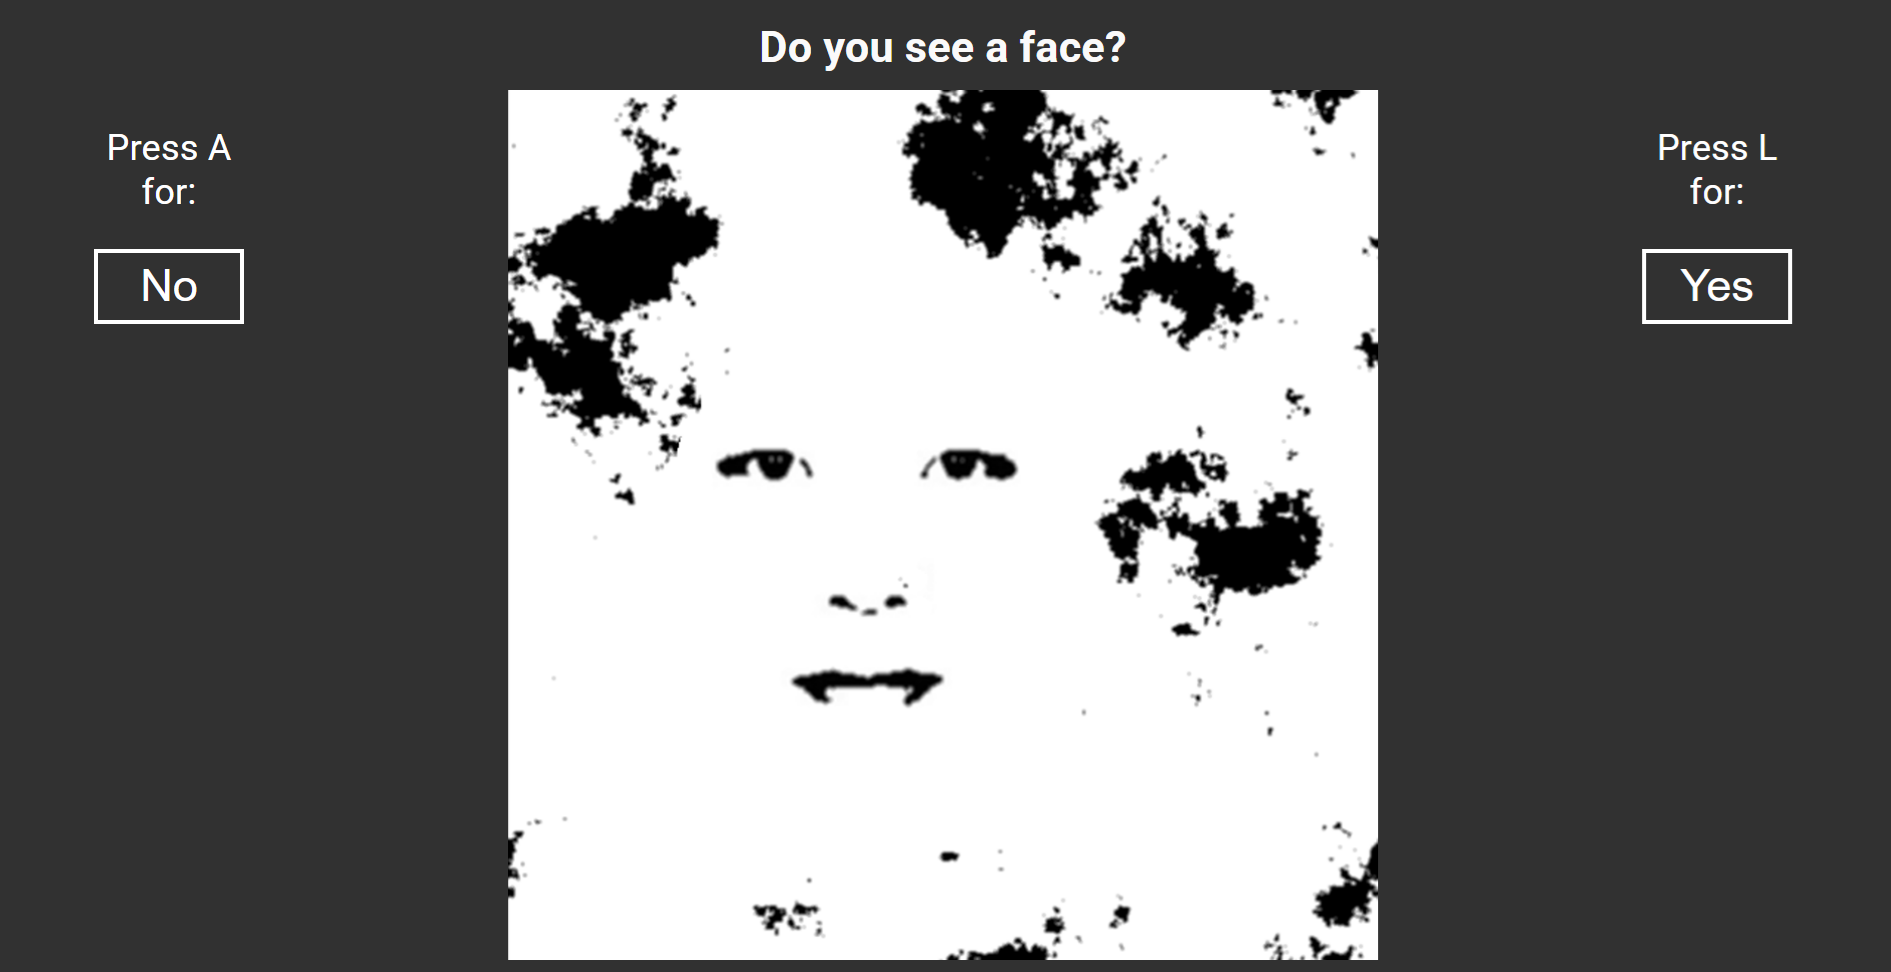
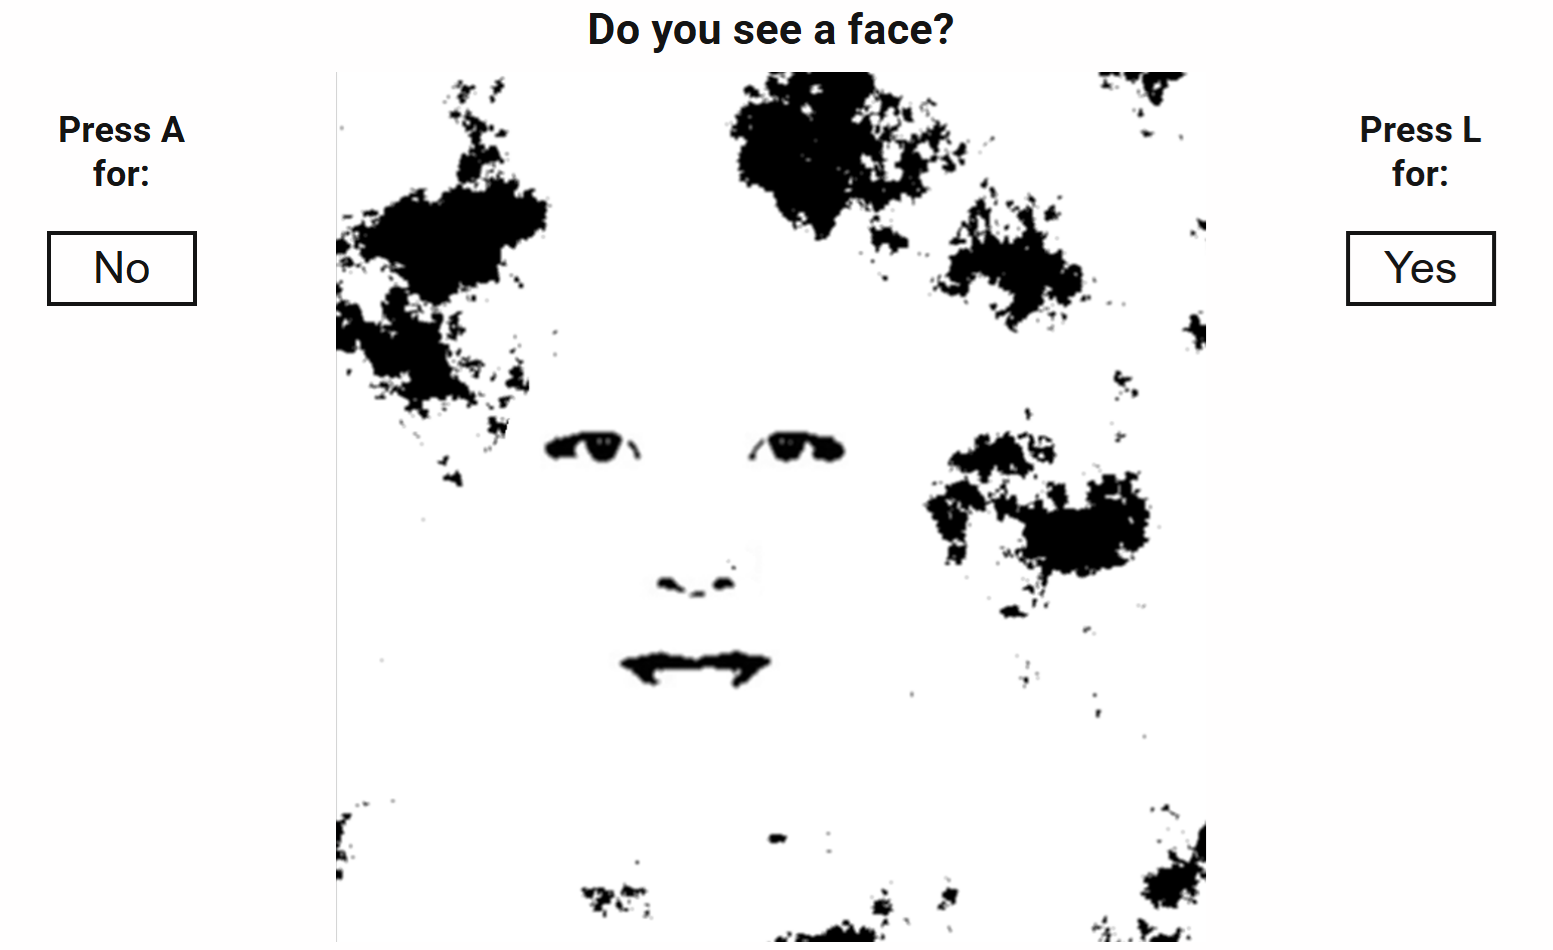
fix: update to white background - black font

diff --git a/src/styles/main.scss b/src/styles/main.scss
@@ -2,6 +2,11 @@
 //@import url('https://fonts.googleapis.com/css2?family=Nunito:ital,wght@0,200..1000;1,200..1000&display=swap');
 
 /* Base font sizes for different classes */
+:root {
+  --background: rgb(255 254 254);
+  --color: rgb(20, 20, 20);
+}
+
 [data-font-size='small'] {
   --font-scale: 0.6;
 }
@@ -54,16 +59,16 @@
   margin: 0 auto; /* this is for overflowing content */
   width: 100%;
   height: 100%;
-  background-color: rgb(49, 49, 49);
-  color: rgb(250, 250, 250);
+  background-color: var(--background);
+  color: var(--color);
 }
 
 .jspsych-display-element {
   display: flex;
   margin: auto;
   flex: 1 1 100%;
-  background-color: rgb(49, 49, 49);
-  color: rgb(250, 250, 250);
+  background-color: var(--background);
+  color: var(--color);
   width: 100%;
   flex-direction: column;
   overflow-y: auto;
@@ -159,7 +164,7 @@
   background-image: none;
   border: 1px solid transparent;
   border-radius: 4px;
-  background-color: rgb(180, 180, 180);
+  background-color: rgb(100, 100, 100);
   color: rgb(255, 255, 255);
   box-shadow:
     rgba(0, 0, 0, 0.2) 0px 3px 1px -2px,
@@ -169,7 +174,7 @@
 }
 
 .jspsych-btn:hover {
-  background-color: rgb(100, 100, 100);
+  background-color: rgb(50, 50, 50);
 }
 
 .jspsych-btn:disabled {
@@ -245,7 +250,7 @@
 }
 
 .jspsych-survey-likert-opt-label {
-  color: #fff !important;
+  color: var(--color) !important;
 }
 
 img,
@@ -267,38 +272,25 @@ button:hover {
 .task-text {
   font-size: calc(var(--font-scale) * 30px);
   line-height: calc(var(--font-scale) * 40px);
-  color: white;
+  font-weight: bold;
+  color: var(--color);
   width: 120px;
 }
 
 .task-text button {
-  border: 3px white solid;
-  background-color: rgb(49, 49, 49);
+  border: 3px var(--color) solid;
+  background-color: var(--background);
   font-size: calc(var(--font-scale) * 30px);
-  color: white;
+  color: var(--color);
   width: 100px;
   height: 50px;
 }
-
-.right-arrow {
-  fill: white;
-  width: 1em;
-  height: 1em;
-  vertical-align: middle;
-}
-.left-arrow {
-  fill: white;
-  width: 1em;
-  height: 1em;
-  vertical-align: middle;
-}
-
 .custom-overlay {
   position: fixed;
   height: 100%;
   width: 100%;
-  background-color: rgb(49, 49, 49);
-  color: rgb(250, 250, 250);
+  background-color: var(--background);
+  color: var(--color);
 }
 
 .resize-page {
@@ -398,8 +390,8 @@ button:hover {
 }
 
 .input-example {
-  background-color: rgb(49, 49, 49);
-  color: rgb(250, 250, 250);
+  background-color: var(--background);
+  color: var(--color);
   font-size: 0.7rem;
   line-height: 0.9rem;
   display: flex;
@@ -434,6 +426,50 @@ button:hover {
   height: 40px;
   font-size: 1rem;
   line-height: 1.2rem;
+}
+
+.group-monitors .input-example {
+  background-color: var(--background);
+  color: var(--color);
+  font-size: 0.5rem;
+  line-height: 0.7rem;
+  display: flex;
+  position: absolute;
+  top: 46%; /* Move the content to 40% of the container height */
+  left: 50%; /* Center horizontally */
+  transform: translate(-50%, -62%); /* Adjust for accurate centering */
+  display: flex;
+  flex-direction: column;
+  align-items: center;
+  justify-content: space-between;
+}
+
+.group-monitors .input-example h3 {
+  font-size: 1rem;
+  line-height: 1.2rem;
+  margin: 10px 0;
+}
+
+.group-monitors .input-content {
+  display: flex;
+  flex-direction: row;
+}
+
+.group-monitors .input-content .task-text {
+  width: 70px;
+}
+
+.group-monitors .input-content p {
+  font-size: 0.8rem;
+  line-height: 1rem;
+  margin: 0;
+}
+
+.group-monitors .input-content button {
+  width: 50px;
+  height: 25px;
+  font-size: 0.8rem;
+  line-height: 1rem;
 }
 
 /* Instruction page 4 - 3 monitors in a row */
